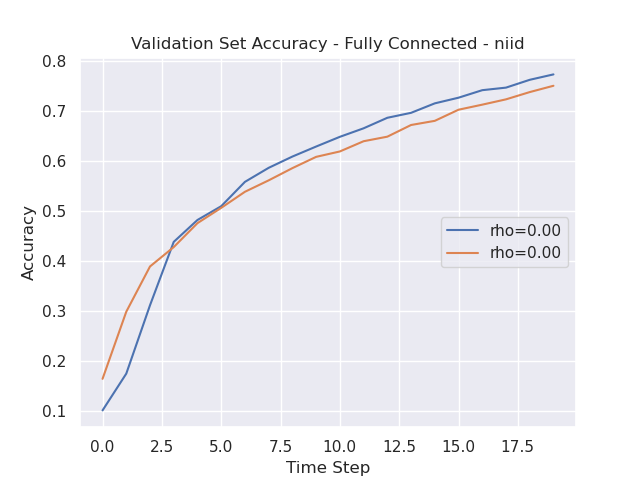
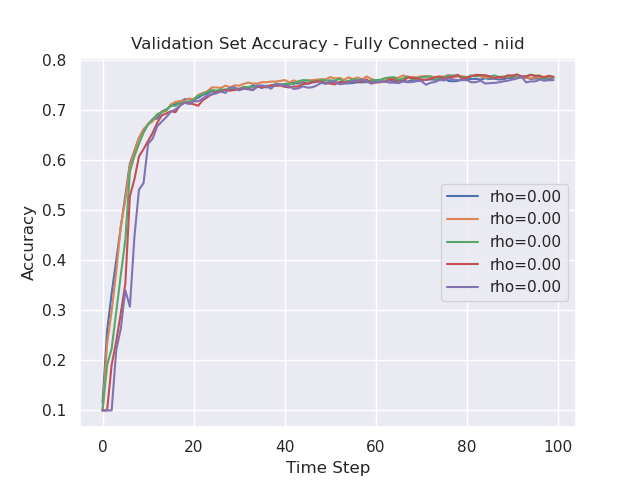
working non-iid with dirilecht sampling - sweeping for 100 agents

diff --git a/experiments/cluster/cifar_federated.py b/experiments/cluster/cifar_federated.py
@@ -55,7 +55,9 @@ if __name__ == '__main__':
     #     trainset=train_dataset.dataset,
     #     labels_per_partition=10
     # )
-
+    num_clients=10
+    batch_size=64
+    torch.manual_seed(78)
     (
         _,
         _,
@@ -64,7 +66,7 @@ if __name__ == '__main__':
         net_dataidx_map,
     ) = partition_data(
         partition='noniid',
-        num_clients=10,
+        num_clients=num_clients,
         beta=0.5,
     )
     _, test_global_dl, _, _ = get_dataloader(
@@ -73,9 +75,9 @@ if __name__ == '__main__':
         test_bs=32,
     )
     trainloaders = []
-    for idx in range(10):
+    for idx in range(num_clients):
         train_dl, _, _, _ = get_dataloader(
-            './data/cifar10', 64, 32, net_dataidx_map[idx]
+            './data/cifar10', batch_size, 32, net_dataidx_map[idx]
         )
 
         trainloaders.append(train_dl)
@@ -112,35 +114,40 @@ if __name__ == '__main__':
     Setting up Consensus Problem
     """
 
-    deltas = [0, 0]
-    lr = 0.001
+    deltas = list(range(0,28,4))
+    lr = 0.01
     t_max = 100
-    rho = 0.01
+    rho = 0.01/num_clients
     acc_per_delta = np.zeros((len(deltas), t_max))
     rate_per_delta = np.zeros((len(deltas), t_max))
     loads = []
     test_accs = []
+    gamma = 1e-4
     
+    total_samples = sum([len(loader.dataset) for loader in trainloaders])
     for i, delta in enumerate(deltas):
         agents = []
-        for loader in trainloaders:
+        for j, loader in enumerate(trainloaders):
+            data_ratio = len(loader.dataset)/total_samples
+            print(f'agent {j} data ratio: {data_ratio}')
             torch.manual_seed(78)
             model = Cifar10CNN()
             agents.append(
                 FedConsensus(
                     N=len(trainloaders),
                     delta=delta,
-                    rho=rho,
+                    rho=rho/data_ratio,
                     model=model,
                     loss=nn.CrossEntropyLoss(),
                     train_loader=loader,
                     epochs=5,
-                    data_ratio=1,
+                    data_ratio=data_ratio,
                     device=device,
                     lr=lr
                 ) 
             )
 
+        global_weight = rho/(rho*sum([1/agent.data_ratio for agent in agents]) - 2*gamma)
         # Broadcast average to all agents and check if equal
         for agent in agents:
             agent.primal_avg = average_params([agent.model.parameters() for agent in agents])
@@ -153,7 +160,7 @@ if __name__ == '__main__':
 
         torch.manual_seed(78)
         global_model = Cifar10CNN()
-        server = EventADMM(clients=agents, t_max=t_max, model=global_model, device=device)
+        server = EventADMM(clients=agents, t_max=t_max, model=global_model, device=device, global_weight=global_weight)
         print('Server spinning')
         server.spin(loader=test_global_dl)
         
@@ -172,32 +179,36 @@ if __name__ == '__main__':
 
     T = range(t_max)
     
-    for acc, rho in zip(acc_per_delta, deltas):
-        plt.plot(T, acc, label=f'rho={rho:.2f}')
+    for acc_per, delta in zip(acc_per_delta, deltas):
+        plt.plot(T, acc_per, label=f'rho={delta}:.2f')
     plt.legend(loc='center right', bbox_to_anchor=(1, 0.5))
     plt.xlabel('Time Step')
     plt.ylabel('Accuracy')
     plt.title('Validation Set Accuracy - Fully Connected - niid')
     plt.savefig('./images/cifar/fc_val.png')
 
-    # for rate, rho in zip(rate_per_delta, rhos):
-    #     plt.plot(T, rate, label=f'rate={rho:.2f}')
-    # plt.legend(loc='center right', bbox_to_anchor=(1, 0.5))
-    # plt.xlabel('Time Step')
-    # plt.ylabel('Rate')
-    # plt.title('Communication Rate - Fully Connected')
-    # plt.savefig('./images/cifar/fc_comm_rate.png')
+    for rate, delta in zip(rate_per_delta, deltas):
+        plt.plot(T, rate, label=f'rate={rho:.2f}')
+    plt.legend(loc='center right', bbox_to_anchor=(1, 0.5))
+    plt.xlabel('Time Step')
+    plt.ylabel('Rate')
+    plt.title('Communication Rate - Fully Connected')
+    plt.savefig('./images/cifar/fc_comm_rate.png')
 
-    # for load, acc, delta in zip(loads, test_accs, deltas):
-    #     plt.plot(acc, load, label=f'rate={delta:.2f}', marker='x')
-    # plt.legend(loc='center right', bbox_to_anchor=(1.3, 0.5))
-    # plt.xlabel('Test Accuracy')
-    # plt.ylabel('Communication Load')
-    # plt.title('Fully Connected')
-    # plt.savefig('./images/cifar/fc_test_load.png')
+    for load, acc, delta in zip(loads, test_accs, deltas):
+        plt.plot(acc, load, label=f'rate={delta:.2f}', marker='x')
+    plt.legend(loc='center right', bbox_to_anchor=(1.3, 0.5))
+    plt.xlabel('Test Accuracy')
+    plt.ylabel('Communication Load')
+    plt.title('Fully Connected')
+    plt.savefig('./images/cifar/fc_test_load.png')
     
     # Save plotting data
-    # np.save(file='figure_data/cifar/rates_per_delta', arr=rate_per_delta)
-    # np.save(file='figure_data/cifar/accs_per_delta', arr=acc_per_delta)
-    # np.save(file='figure_data/cifar/loads_per_delta', arr=loads)
-    # np.save(file='figure_data/cifar/deltas', arr=deltas)
+    print(rate_per_delta)
+    print(acc_per_delta)
+    print(loads)
+    print(deltas)
+    np.save(file='figure_data/cifar/rates_per_delta', arr=rate_per_delta)
+    np.save(file='figure_data/cifar/accs_per_delta', arr=acc_per_delta)
+    np.save(file='figure_data/cifar/loads_per_delta', arr=loads)
+    np.save(file='figure_data/cifar/deltas', arr=deltas)

diff --git a/admm/servers.py b/admm/servers.py
@@ -1,6 +1,6 @@
 import torch
 from typing import List
-from admm.utils import sum_params, add_params, average_params
+from admm.utils import sum_params, add_params, average_params, scale_params
 from admm import agents
 from tqdm import tqdm
 from torch.utils.data.dataloader import DataLoader
@@ -18,13 +18,14 @@ from torch.multiprocessing import set_start_method
     
 class EventADMM:
 
-    def __init__(self, clients: List[agents.FedConsensus], t_max: int, model: torch.nn.Module, device: 'str') -> None:
+    def __init__(self, clients: List[agents.FedConsensus], t_max: int, model: torch.nn.Module, device: str, global_weight: float) -> None:
         self.agents = clients
         self.t_max = t_max
         self.pbar = tqdm(range(t_max))
         self.comm = 0
         self.N = len(self.agents)
         self.device = device
+        self.global_weight = global_weight
         
         # For experiment purposes
         self.rates = []
@@ -51,9 +52,10 @@ class EventADMM:
                     C.append(agent.residual)
             if C:
                 # If communicaiton set isn't empty
-                residuals = [x for x in sum_params(C)]
+                residuals = [x*self.global_weight for x in sum_params(C)]
                 for agent in self.agents:
                     add_params(agent.primal_avg, residuals)
+                    # scale_params(agent.primal_avg, self.global_weight)
             if self.device == 'cuda': torch.cuda.synchronize()
             
             # Dual update
@@ -67,6 +69,8 @@ class EventADMM:
                 # Get gloabl variable Z and copy to a network for validation
                 with torch.no_grad():
                     global_params = [param.cpu().numpy() for param in self.agents[0].primal_avg]
+                    # global_params = average_params([agent.model.parameters() for agent in self.agents])
+                    # global_params = [param.cpu().numpy() for param in global_params]
                     self.global_model = self.set_parameters(global_params, self.global_model)
                     global_acc = self.validate_global(loader=loader)
                     acc_descrption += f', Global Acc = {global_acc:.4f}'

diff --git a/admm/agents.py b/admm/agents.py
@@ -30,7 +30,7 @@ class FedConsensus:
         self.lam = [torch.zeros(param.shape).to(self.device) for param in self.model.parameters()]
         # self.optimizer = torch.optim.Adam(self.model.parameters(), self.lr)
         self.train_loader = train_loader
-        self.optimizer = torch.optim.SGD(self.model.parameters(), lr=0.01, momentum=0.9)
+        self.optimizer = torch.optim.SGD(self.model.parameters(), lr=self.lr, momentum=0.9)
         self.criterion = loss
         self.epochs = epochs
         self.data_ratio = data_ratio
@@ -82,7 +82,7 @@ class FedConsensus:
         add_params(self.residual, self.lam)
         subtract_params(self.residual, self.last_communicated)
         # scale_params(self.residual, a=self.rho/(self.N*self.rho - 2*0.0001))
-        scale_params(self.residual, a=1/self.N)
+        scale_params(self.residual, a=1/self.data_ratio)
 
     def copy_params(self, params):
         copy = [torch.zeros(param.shape).to(self.device).copy_(param) for param in params]
